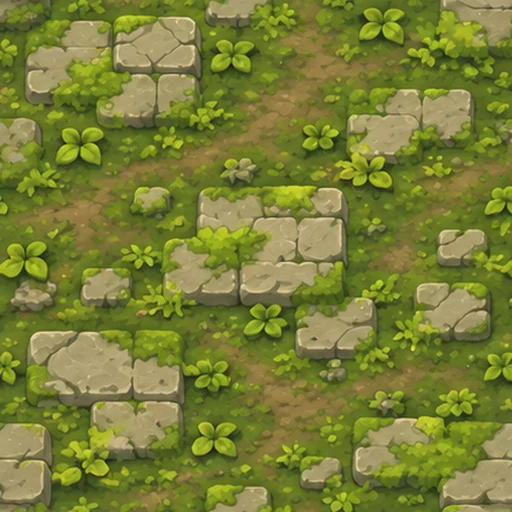
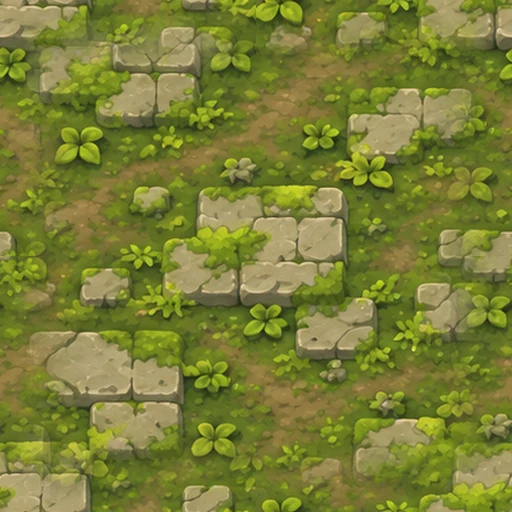
총/활 한손 자세, 바닥 이음새 제거, 지역·기지 경계 부드럽게
Claude-Session: https://claude.ai/code/session_01BJxCm1dmmwxxaYfrZHuYsX

diff --git a/public/game.html b/public/game.html
@@ -793,6 +793,7 @@ function drawGround(x0,y0,x1,y1){
  for(let i=0;i<NZ;i++){zfill(i,lt(ZS[i].c,-.38),18,6)}
  blobs([BASEC],6,'#b39258',16);
  for(let i=0;i<NZ;i++){zfill(i,lt(ZS[i].c,.18),0,6);zfill(i,pat('tile_'+i)||ZS[i].c)}
+ featherZones(x0,y0,x1,y1);
  for(let i=0;i<NZ;i++){if(AI('tile_'+i))continue;const bb=ZBB[i];if(bb.x1<x0||bb.x0>x1||bb.y1<y0||bb.y0>y1)continue;ctx.save();ctx.clip(ZC[i].path);texture(i,Math.max(x0,bb.x0),Math.max(y0,bb.y0),Math.min(x1,bb.x1),Math.min(y1,bb.y1));ctx.restore()}
  ctx.lineCap='round';ctx.lineJoin='round';
  for(let i=0;i<NZ;i++){const b=ZB[i][4];ctx.fillStyle='rgba(60,30,30,.12)';ctx.beginPath();ctx.arc(b.x,b.y,b.r-8,0,TAU);ctx.fill();
@@ -800,7 +801,7 @@ function drawGround(x0,y0,x1,y1){
   ctx.setLineDash([26,18]);ctx.strokeStyle='rgba(224,85,74,.75)';ctx.lineWidth=5;ctx.beginPath();ctx.arc(b.x,b.y,b.r-30,0,TAU);ctx.stroke();ctx.setLineDash([])}
  ctx.lineCap='butt';
  drawWalls();
- blobs([BASEC],0,pat('tile_base')||'#f2d9a0');if(!AI('tile_base')){ctx.save();blobPath([BASEC]);ctx.clip();texture(1,BASE.x-BASEC.r,BASE.y-BASEC.r,BASE.x+BASEC.r,BASE.y+BASEC.r);ctx.restore()}
+ blobs([BASEC],0,pat('tile_base')||'#f2d9a0');featherBase();if(!AI('tile_base')){ctx.save();blobPath([BASEC]);ctx.clip();texture(1,BASE.x-BASEC.r,BASE.y-BASEC.r,BASE.x+BASEC.r,BASE.y+BASEC.r);ctx.restore()}
  ctx.setLineDash([30,22]);ctx.lineWidth=6;ctx.strokeStyle=S.built.fire?'#5fd06f':'#d9c491';ctx.beginPath();ctx.arc(BASE.x,BASE.y,BASE.ring,T*.15,T*.15+TAU);ctx.stroke();ctx.setLineDash([]);
  ctx.lineWidth=2.2;ctx.strokeStyle=OLC;
  for(const d of deco){if(d.x<x0-30||d.x>x1+30||d.y<y0-30||d.y>y1+30||false)continue;const z=d.z,x=d.x,y=d.y,q=d.s;
@@ -813,6 +814,11 @@ function drawGround(x0,y0,x1,y1){
  for(let i=0;i<NZ;i++){if(zoneOpen(i))continue;const c=ZB[i][0];label('스테이지 '+(i+1)+' · '+ZS[i].n,c.x,c.y-14,22,'#cfc9e8');label('Lv.'+ZS[i].req+' 달성 시 열림',c.x,c.y+14,18,'#ffe066')}
  for(const m of mons)if(m.d.boss&&m.dead){const t=Math.ceil(m.respT);label('보스 재생성',m.hx,m.hy-12,20,'#fff');label(Math.floor(t/60)+' : '+('0'+t%60).slice(-2),m.hx,m.hy+16,24,'#fff')}
 }
+// 지역끼리 맞닿은 경계를 부드럽게: 각 지역 무늬를 이웃 땅 쪽으로 점점 옅게 번지게
+let ZOTH=null;function featherZones(x0,y0,x1,y1){if(!ZOTH)ZOTH=ZC.map((_,i)=>{const p=new Path2D();ZC.forEach((c,j)=>{if(j!==i)p.addPath(c.path)});return p});
+ ctx.lineJoin='round';for(let i=0;i<NZ;i++){const bb=ZBB[i];if(bb.x1+80<x0||bb.x0-80>x1||bb.y1+80<y0||bb.y0-80>y1)continue;const fill=pat('tile_'+i)||ZS[i].c;ctx.save();ctx.clip(ZOTH[i]);ctx.strokeStyle=fill;
+  for(const[w,a]of[[130,.09],[112,.1],[94,.11],[76,.12],[58,.14],[40,.16],[22,.2]]){ctx.globalAlpha=a;ctx.lineWidth=w;ctx.stroke(ZC[i].path)}ctx.restore()}ctx.globalAlpha=1;ctx.lineWidth=2.2;ctx.strokeStyle=OLC}
+function featherBase(){const fill=pat('tile_base')||'#f2d9a0';ctx.save();ctx.strokeStyle=fill;for(const[w,a]of[[120,.14],[86,.22],[56,.32],[28,.45]]){ctx.globalAlpha=a;ctx.lineWidth=w;blobPath([BASEC]);ctx.stroke()}ctx.restore();ctx.globalAlpha=1;ctx.lineWidth=2.2;ctx.strokeStyle=OLC}
 function drawWalls(){for(let L=0;L<NZ;L++){if(zoneOpen(L))continue;ctx.save();ctx.clip(ZC[L].path);
   const st=(w,c,d)=>{ctx.lineWidth=w;ctx.strokeStyle=c;ctx.setLineDash(d||[]);for(let O=0;O<NZ;O++)if(zoneOpen(O))ctx.stroke(ZC[O].path);ctx.beginPath();ctx.arc(BASE.x,BASE.y,BASEC.r-14,0,TAU);ctx.stroke()};
   ctx.lineJoin='round';st(34,'#3a2c22');st(28,'#8a6a4a');st(20,'#b08a5e',[22,6]);st(6,'rgba(255,255,255,.18)',[22,6]);ctx.setLineDash([]);ctx.restore()}
@@ -894,7 +900,7 @@ function seg2(ax,ay,a1,l1,a2,l2,w,c,im){if(im){const jx=ax+Math.cos(a1)*l1,jy=ay
  ctx.lineCap='round';ctx.lineJoin='round';ctx.beginPath();ctx.moveTo(ax,ay);ctx.lineTo(jx,jy);ctx.lineTo(ex,ey);ctx.strokeStyle='rgba(30,22,46,.72)';ctx.lineWidth=w+2.6;ctx.stroke();ctx.strokeStyle=c;ctx.lineWidth=w;ctx.stroke();
  ctx.strokeStyle='rgba(255,255,255,.28)';ctx.lineWidth=w*.35;ctx.beginPath();ctx.moveTo(ax-1,ay-1);ctx.lineTo(jx-1,jy-1);ctx.stroke();ctx.lineCap='butt';ctx.strokeStyle=OLC;ctx.lineWidth=2;return{x:ex,y:ey}}
 function armPose(w,p,A,mv,s){ // returns [upper, elbow, weaponAngle, lean]
- const aim=!!(w.pel||w.pierce),dual=w===WT.dagger,ru=aim?Math.PI/2-.95+(mv?.12*s:0):dual?Math.PI/2-.12+(mv?.35*s:0):Math.PI/2-.5+(mv?.18*s:0),rl=aim?-.45:dual?-.8:-1.35,IW=aim?-.08:dual?-1.0:-1.47;if(p<0)return[ru,rl,IW+(mv?.06*s:Math.sin(T*2.5)*.035),0];
+ const aim=!!(w.pel||w.pierce),dual=w===WT.dagger,ru=aim?Math.PI/2-.55+(mv?.12*s:0):dual?Math.PI/2-.12+(mv?.35*s:0):Math.PI/2-.5+(mv?.18*s:0),rl=aim?-1.05:dual?-.8:-1.35,IW=aim?-.08:dual?-1.0:-1.47;if(p<0)return[ru,rl,IW+(mv?.06*s:Math.sin(T*2.5)*.035),0];
  if(w.shot){const k=p<.3?eo(p/.3):1-eio((p-.3)/.7)*.0;const rec=p<.3?0:Math.sin(clamp((p-.3)/.25,0,1)*Math.PI)*.25;return[lerp(ru,A-.25,eo(p/.25))-rec,lerp(rl,.25,eo(p/.25)),A-rec*.6,.08]}
  if(WT[wType()]===WT.spear){const pu=A-.15;if(p<.3){const k=eio(p/.3);return[lerp(ru,pu,k),lerp(rl,-1.9,k),lerp(IW,A,k),-.1*k]}if(p<.55){const k=eo((p-.3)/.25);return[pu,lerp(-1.9,0,k),A,lerp(-.1,.25,k)]}const k=eio((p-.55)/.45);return[lerp(pu,ru,k),lerp(0,rl,k),lerp(A,IW,k),lerp(.25,0,k)]}
  const ar=w.arc||1.2,u0=A-1.5-ar*.55,u1=A+.55+ar*.25;
@@ -927,8 +933,8 @@ function drawPlayer(){if(P.dead)return;const x=P.x,y=P.y,mv=P.moving,k=wType(),g
  const lg=(sg)=>{const sw=mv?.62*Math.sin(ph+(sg>0?0:Math.PI)):0,bend=mv?.18+.5*Math.max(0,Math.cos(ph+(sg>0?0:Math.PI))):.12;const ax=hipx+sg*3,a1=Math.PI/2-sw+(mv?0:-sg*.22),l1=IMG?8.5:7.5,l2=IMG?8:7.5,ex=ax+Math.cos(a1)*l1+Math.cos(a1+bend)*l2,ey=hipy+Math.sin(a1)*l1+Math.sin(a1+bend)*l2;(HA('foot')?pimg(HA('foot'),ex+2,ey-1,11):ell(ex+1.5,ey+.5,4.6,3.2,lt(L,-.2)));seg2(ax,hipy,a1,l1,bend,l2,6.5,L,HA('leg'))};
  lg(-1);lg(1);
  // back arm
- const two=k!=='dagger',BWI=HA('body'),BW=BWI?Math.min(22,22*BWI.width/BWI.height):10,bs={x:chx-(IMG?BW*.36:2)*Math.cos(lean),y:chy+(IMG?3.8:2.5)},l1=IMG?9.5:8.5,l2=IMG?9:8;
- let BA=Math.PI/2+.3;if(!two){const bu=Math.PI/2-(p>=0?.2+eio(p)*.9:-.38)-(mv?.2*s:0),bh=(BA=bu,seg2)(bs.x,bs.y,bu,IMG?9.5:8,-.55,IMG?9:7.5,5.2,L,HA('arm'));const ba=p>=0?-1.2+eio(p)*1.6:.2+(mv?.1*s:0);ctx.save();ctx.translate(bh.x,bh.y);ctx.rotate(ba);drawWeapon(k,gc,gr>=2,gr);ctx.restore();(HA('hand')?pimg(HA('hand'),bh.x,bh.y,5.8):ell(bh.x,bh.y,3.6,3.6,h.body))}
+ const two=k!=='dagger'&&k!=='bow'&&k!=='gun',BWI=HA('body'),BW=BWI?Math.min(22,22*BWI.width/BWI.height):10,bs={x:chx-(IMG?BW*.36:2)*Math.cos(lean),y:chy+(IMG?3.8:2.5)},l1=IMG?9.5:8.5,l2=IMG?9:8;
+ let BA=Math.PI/2+.3;if(!two){const bu=Math.PI/2-(p>=0?.2+eio(p)*.9:-.38)-(mv?.2*s:0),bh=(BA=bu,seg2)(bs.x,bs.y,bu,IMG?9.5:8,-.55,IMG?9:7.5,5.2,L,HA('arm'));const ba=p>=0?-1.2+eio(p)*1.6:.2+(mv?.1*s:0);if(k==='dagger'){ctx.save();ctx.translate(bh.x,bh.y);ctx.rotate(ba);drawWeapon(k,gc,gr>=2,gr);ctx.restore()}(HA('hand')?pimg(HA('hand'),bh.x,bh.y,5.8):ell(bh.x,bh.y,3.6,3.6,h.body))}
  const hx=chx+Math.sin(lean)*(IMG?11.5:11),hy=chy-Math.cos(lean)*(IMG?11.5:11);
  // front arm + weapon
  const fs={x:chx+(IMG?BW*.3:1.5)*Math.cos(lean),y:chy+(IMG?3.4:2.5)};
@@ -1168,7 +1174,7 @@ function draw(){const B=$('mbody'),F=$('mfoot');F.innerHTML='';
   for(const a of L){if(a.g!==g){g=a.g;h+=`<div class="note" style="color:#ffd23c;padding:10px 0 4px;text-align:left">${g}</div>`}const u=AURL[a.n];h+=`<div class="row arow"><div class="ric">${u?`<img src="${u}">`:'<span style="font-size:11px;color:#777196">기본</span>'}</div><div class="rin"><h4 style="font-size:14px">${a.d}</h4><p>${a.n}.png · ${a.sz}${BAKED[a.n]&&!LOCAL[a.n]?' · 게임에 들어감':LOCAL[a.n]?' · 이 기기에만':''}</p></div><label class="btn eq upl" style="min-width:60px;padding:6px 6px 9px">넣기<input type="file" accept="image/*" data-up="${a.n}"></label>${LOCAL[a.n]?`<button class="btn no" data-a="adel:${a.n}" style="min-width:48px;padding:6px 4px 9px">빼기</button>`:''}</div>`}
   B.innerHTML=h}
  else if(panel==='menu'){$('mtitle').textContent='메뉴';$('mcur').innerHTML='';
-  B.innerHTML=(window.IS_ADMIN?'':'<!--')+`<div class="row" style="border-color:#ffd23c"><div class="rin"><h4>🛠 관리자 모드 ${S.admin?'<b style="color:#7be36a">켜짐</b>':''}</h4><p>재화 무한 · 모든 무기 · 영웅 · 레벨 · 지역 테스트용</p></div><button class="btn eq" data-a="goadmin">열기</button></div>`+(window.IS_ADMIN?'':'-->')+`<div class="row"><div class="rin"><h4>계정</h4><p>${window.NET?NET.nick:''} · 저장하고 로그인 화면으로</p></div><button class="btn no" data-a="logout" style="min-width:76px">로그아웃</button></div><div class="row"><div class="rin"><h4>모루 한 번에 만들기</h4><p>모루 버튼을 한 번 누를 때 만드는 개수</p></div>${[1,5,10].map(n=>`<button class="btn ${(S.cn||1)===n?'':'eq'}" data-a="cn:${n}" style="min-width:44px;padding:6px 4px 9px">${n}개</button>`).join('')}</div>`+(window.IS_ADMIN?`<div class="row"><div class="rin"><h4>이미지 넣기</h4><p>캐릭터·몬스터·버튼·아이콘 등 모든 그림을 내 이미지로 바꾸기</p></div><button class="btn eq" data-a="goassets">열기</button></div>`:'')+`<div class="note" style="color:#ffd23c">버전 1118-0110 (맵 확대·보스 2마리·새 이미지·팔 수정·몬스터 고르게)</div><div class="note">진행 상황은 서버에 자동 저장돼요.<br>이동: 화면을 누른 채 끌기 (PC는 WASD)<br>공격: 몬스터 가까이 가면 자동<br>가방 속 물건은 기지에 돌아오면 입금돼요.<br>금화·크리스탈·보석·오브 모두 가방에 담겨요. 가득 차면 더 주울 수 없어요.</div>`+(window.IS_ADMIN?`<div class="row"><div class="rin"><h4>처음부터 다시</h4><p>모든 진행 상황을 지웁니다.</p></div><button class="btn no" data-a="reset">${resetArm?'한 번 더 누르기':'초기화'}</button></div>`:'')}}
+  B.innerHTML=(window.IS_ADMIN?'':'<!--')+`<div class="row" style="border-color:#ffd23c"><div class="rin"><h4>🛠 관리자 모드 ${S.admin?'<b style="color:#7be36a">켜짐</b>':''}</h4><p>재화 무한 · 모든 무기 · 영웅 · 레벨 · 지역 테스트용</p></div><button class="btn eq" data-a="goadmin">열기</button></div>`+(window.IS_ADMIN?'':'-->')+`<div class="row"><div class="rin"><h4>계정</h4><p>${window.NET?NET.nick:''} · 저장하고 로그인 화면으로</p></div><button class="btn no" data-a="logout" style="min-width:76px">로그아웃</button></div><div class="row"><div class="rin"><h4>모루 한 번에 만들기</h4><p>모루 버튼을 한 번 누를 때 만드는 개수</p></div>${[1,5,10].map(n=>`<button class="btn ${(S.cn||1)===n?'':'eq'}" data-a="cn:${n}" style="min-width:44px;padding:6px 4px 9px">${n}개</button>`).join('')}</div>`+(window.IS_ADMIN?`<div class="row"><div class="rin"><h4>이미지 넣기</h4><p>캐릭터·몬스터·버튼·아이콘 등 모든 그림을 내 이미지로 바꾸기</p></div><button class="btn eq" data-a="goassets">열기</button></div>`:'')+`<div class="note" style="color:#ffd23c">버전 1118-0120 (경계 부드럽게·총/활 자세·바닥 이음새)</div><div class="note">진행 상황은 서버에 자동 저장돼요.<br>이동: 화면을 누른 채 끌기 (PC는 WASD)<br>공격: 몬스터 가까이 가면 자동<br>가방 속 물건은 기지에 돌아오면 입금돼요.<br>금화·크리스탈·보석·오브 모두 가방에 담겨요. 가득 차면 더 주울 수 없어요.</div>`+(window.IS_ADMIN?`<div class="row"><div class="rin"><h4>처음부터 다시</h4><p>모든 진행 상황을 지웁니다.</p></div><button class="btn no" data-a="reset">${resetArm?'한 번 더 누르기':'초기화'}</button></div>`:'')}}
 function act(a){const[k,v]=a.split(':');if(k==='adm'&&!window.IS_ADMIN)return;
  if(k==='soon'){toast('준비 중이에요');return}
  if(k==='up'){const u=UP[v],l=S.up[v];if(l>=u.max)return;const c=u.cost(l);if(!afford(c)){toast('재화가 부족해요');return}S.gold-=c.gold;if(c.orb)S.orb-=c.orb;if(c.rb)S.rb-=c.rb;S.up[v]++;const oh=ST.maxhp;calc();if(v==='hp')P.hp+=ST.maxhp-oh;qev('up',v,1);save()}
